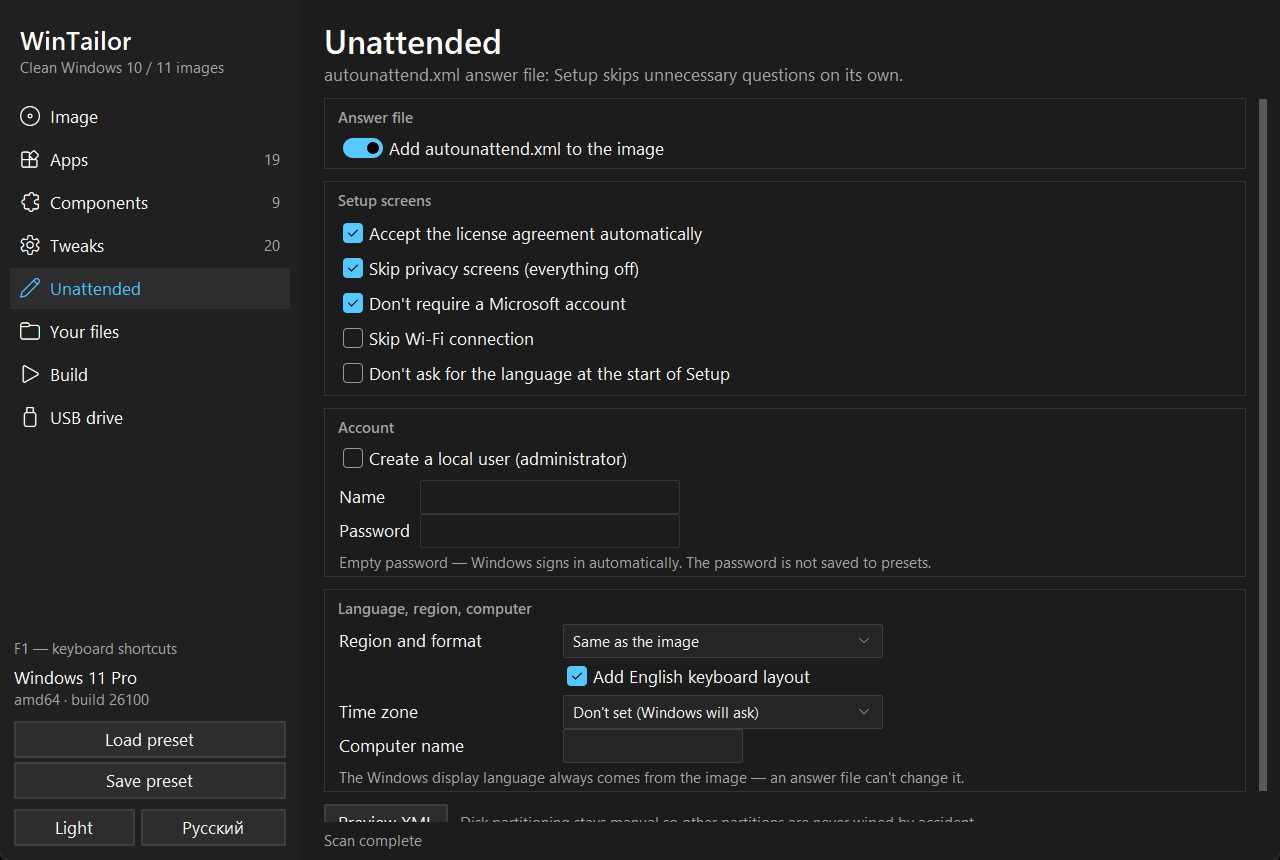
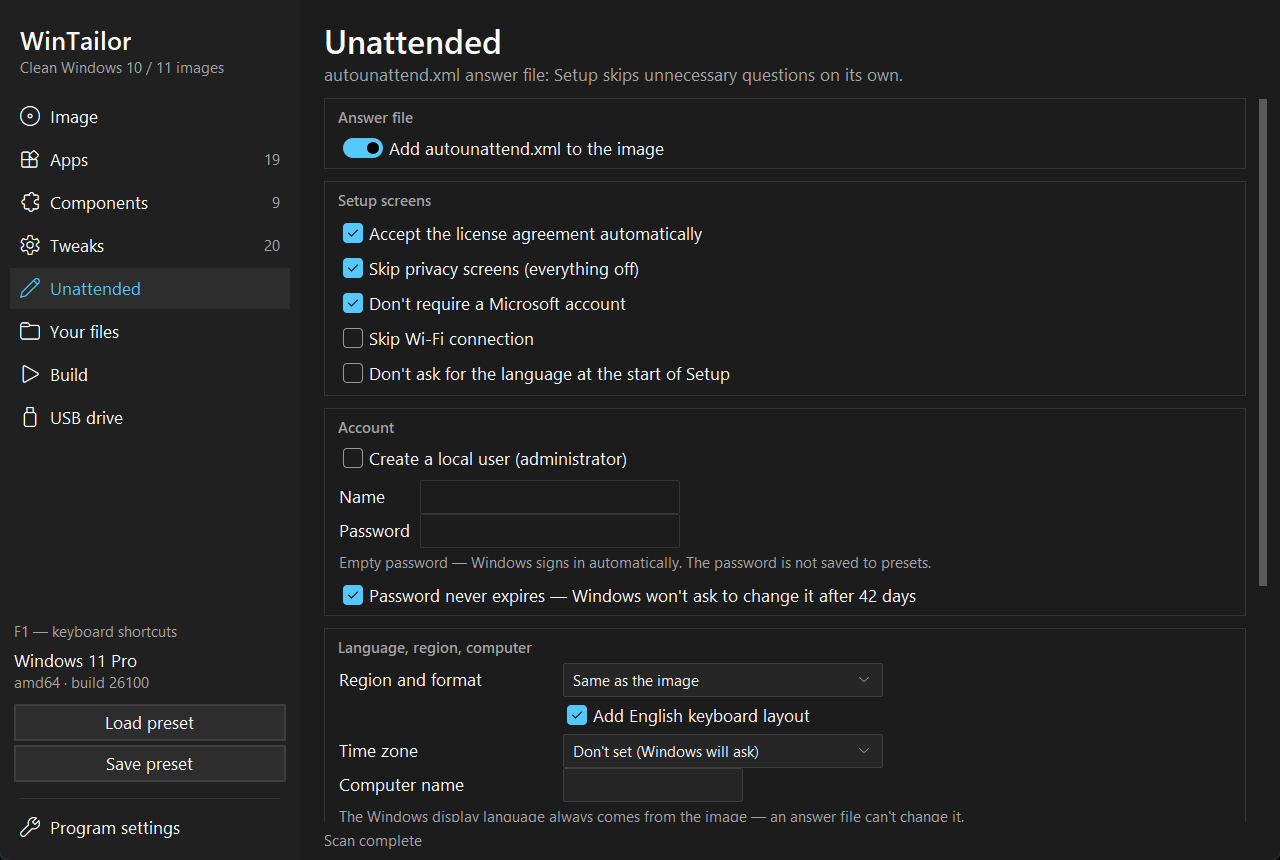
Версия 1.5.0: редакции галочками, пароль без срока действия, новые скриншоты

Changed region(s): [[0.25, 0.6651, 0.75, 0.9674], [0.0, 0.7256, 0.2188, 0.9977], [0.9688, 0.6651, 1.0, 0.9372]]

diff --git a/README.md b/README.md
@@ -44,17 +44,17 @@ WinTailor делает это **один раз — в самом образе**
 | | |
 |---|---|
 | 🧹 **39 приложений** | Bing, Copilot, Cortana, Teams, Outlook, Clipchamp, Xbox, пасьянсы, «Советы», Dev Home и другие — с размером каждого |
-| ⚙ **37 настроек** | Телеметрия, реклама, виджеты, классическое контекстное меню, тёмная тема, «Пуск» без рекомендаций, Проводник без «Главной» и «Галереи», игровые оптимизации |
+| ⚙ **38 настроек** | Телеметрия, реклама, виджеты, классическое контекстное меню, тёмная тема, «Пуск» без рекомендаций, Проводник без «Главной» и «Галереи», игровые оптимизации |
 | 🧩 **14 компонентов** | OneDrive, Edge, Internet Explorer, WordPad, PowerShell 2.0, Recall, распознавание лиц, рукописный ввод и др. |
 | 🔍 **Сканирование образа** | Всё, чего нет в каталоге, показывается отдельным списком с оценкой риска: «безопасно», «осторожно», «опасно» |
 | 🎮 **Готовые профили** | «Игровой», «Офисный», «Минимальный», «Для слабого ПК» — одним щелчком, повторный щелчок отменяет |
 | 💻 **Установка на любой ПК** | Обход проверок TPM 2.0 / Secure Boot / процессора / памяти для Windows 11, установка без интернета и учётной записи Microsoft |
-| 🤖 **Автоустановка** | Пропуск лицензии и экранов конфиденциальности, локальный пользователь, регион, часовой пояс, имя компьютера |
+| 🤖 **Автоустановка** | Пропуск лицензии и экранов конфиденциальности, локальный пользователь с паролем без срока действия, регион, часовой пояс, имя компьютера |
 | 📁 **Свои файлы** | Установщики, драйверы, конфиги — окажутся в `C:\Setup` или на рабочем столе сразу после установки. Просто перетащите их в окно из Проводника |
 | 📊 **Отчёт после сборки** | Что удалено на самом деле, что не удалось и насколько меньше стала система. Рядом с ISO — полный лог и контрольная сумма SHA-256 |
 | 💾 **Запись флешки** | Загружается и на UEFI, и на старых BIOS; большой `install.wim` делится автоматически |
 | 🧰 **Ventoy** | Если на флешке стоит [Ventoy](https://www.ventoy.net), образ просто копируется на неё — без форматирования, остальные ISO остаются |
-| 🗂 **Несколько редакций** | Например, Pro и Home в одном ISO — установщик спросит, какую ставить |
+| 🗂 **Несколько редакций** | Отметьте галочками, например, Pro и Home — установщик спросит, какую ставить |
 | ⏯ **Продолжение сборки** | Если сборка прервалась (сбой, выключили свет, нажали «Отмена»), следующая продолжит с того же места |
 | 🏷 **Сведения о производителе** | Своё имя производителя, модель, поддержка и логотип в «Параметры → Система → О программе» |
 | 🔄 **Обновление в один клик** | Программа сама скачает и поставит новую версию |
@@ -86,7 +86,7 @@ WinTailor делает это **один раз — в самом образе**
 ## Как пользоваться
 
 1. **Скачайте ISO Windows** с сайта Microsoft: [Windows 11](https://www.microsoft.com/software-download/windows11) или [Windows 10](https://www.microsoft.com/software-download/windows10) (раздел «Создание установочного носителя» → образ ISO).
-2. **Вкладка «Образ»:** укажите ISO и нажмите «Прочитать образ». Выберите редакцию — ту, на которую у вас есть лицензия (обычно Pro или Домашняя).
+2. **Вкладка «Образ»:** укажите ISO и нажмите «Прочитать образ». Отметьте галочкой редакцию — ту, на которую у вас есть лицензия (обычно Pro или Домашняя).
 3. *Необязательно, но полезно:* нажмите **«Сканировать образ»** — программа покажет всё, что есть внутри, и размер каждого приложения. Первый раз это несколько минут.
 4. **Выберите профиль** или пройдитесь по вкладкам «Приложения», «Компоненты», «Настройки» и отметьте нужное. Если сомневаетесь — оставьте как есть: по умолчанию выбрано безопасное.
 5. *Необязательно:* на вкладке **«Автоустановка»** включите пропуск лишних экранов и создание пользователя, а на вкладке **«Свои файлы»** добавьте установщики программ или драйверы.

diff --git a/README.en.md b/README.en.md
@@ -44,17 +44,17 @@ WinTailor does it **once — in the image itself**. Install Windows from that dr
 | | |
 |---|---|
 | 🧹 **39 apps** | Bing, Copilot, Cortana, Teams, Outlook, Clipchamp, Xbox, Solitaire, Tips, Dev Home and more — with the size of each |
-| ⚙ **37 tweaks** | Telemetry, ads, widgets, classic context menu, dark theme, Start without recommendations, File Explorer without Home and Gallery, gaming optimizations |
+| ⚙ **38 tweaks** | Telemetry, ads, widgets, classic context menu, dark theme, Start without recommendations, File Explorer without Home and Gallery, gaming optimizations |
 | 🧩 **14 components** | OneDrive, Edge, Internet Explorer, WordPad, PowerShell 2.0, Recall, face recognition, handwriting and more |
 | 🔍 **Image scan** | Everything that's not in the catalog is listed separately with a risk rating: “safe”, “caution”, “dangerous” |
 | 🎮 **Ready-made profiles** | “Gaming”, “Office”, “Minimal”, “Low-end PC” — one click, click again to undo |
 | 💻 **Install on any PC** | Bypasses the Windows 11 TPM 2.0 / Secure Boot / CPU / RAM checks; setup without internet or a Microsoft account |
-| 🤖 **Unattended setup** | Skips the license and privacy screens, creates a local user, sets region, time zone and computer name |
+| 🤖 **Unattended setup** | Skips the license and privacy screens, creates a local user with a non-expiring password, sets region, time zone and computer name |
 | 📁 **Your files** | Installers, drivers, configs end up in `C:\Setup` or on the desktop right after setup. Just drag them into the window from Explorer |
 | 📊 **Build report** | What was actually removed, what failed and how much smaller the system became. The full log and a SHA-256 checksum are saved next to the ISO |
 | 💾 **USB writer** | Boots on both UEFI and legacy BIOS; a large `install.wim` is split automatically |
 | 🧰 **Ventoy** | If the drive has [Ventoy](https://www.ventoy.net), the image is simply copied to it — no formatting, your other ISOs stay |
-| 🗂 **Several editions** | For example, Pro and Home in one ISO — Setup asks which one to install |
+| 🗂 **Several editions** | Check, for example, Pro and Home — Setup asks which one to install |
 | ⏯ **Resume a build** | If a build was interrupted (a crash, a power cut, “Cancel”), the next one continues where it stopped |
 | 🏷 **Manufacturer info** | Your own manufacturer, model, support details and logo in “Settings → System → About” |
 | 🔄 **One-click update** | The program downloads and installs the new version itself |
@@ -86,7 +86,7 @@ Russian and English UI, dark and light themes, presets, keyboard shortcuts (F1 f
 ## How to use
 
 1. **Download a Windows ISO** from Microsoft: [Windows 11](https://www.microsoft.com/software-download/windows11) or [Windows 10](https://www.microsoft.com/software-download/windows10) (“Create installation media” → ISO file).
-2. **Image page:** choose the ISO and click “Read image”. Pick the edition you have a license for (usually Pro or Home).
+2. **Image page:** choose the ISO and click “Read image”. Check the edition you have a license for (usually Pro or Home).
 3. *Optional but useful:* click **“Scan image”** — the app shows everything inside and the size of each app. The first scan takes a few minutes.
 4. **Pick a profile**, or go through the Apps, Components and Tweaks pages and check what you need. When in doubt, leave the defaults — they're safe.
 5. *Optional:* on the **Unattended** page enable skipping the extra screens and creating a user; on the **Your files** page add program installers or drivers.
